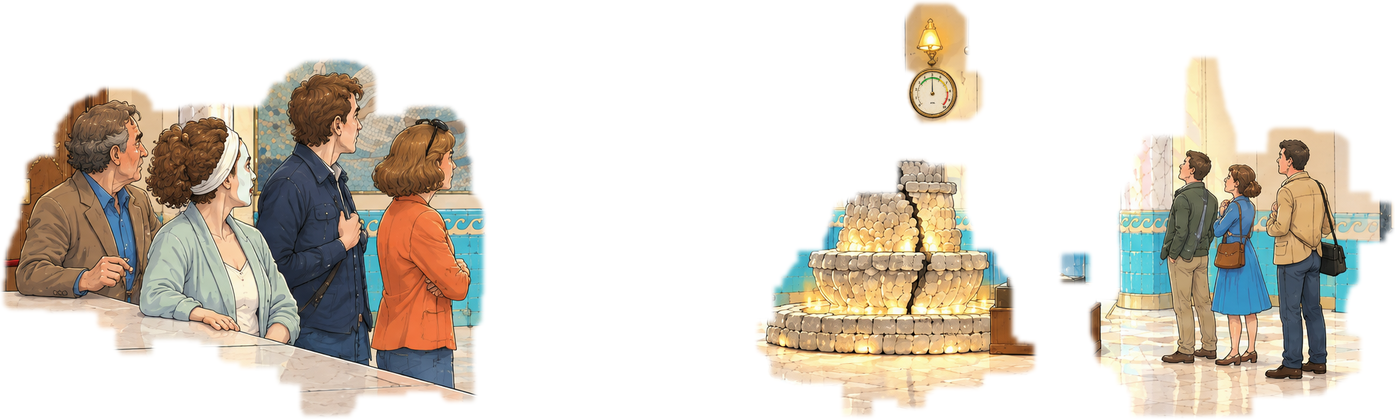
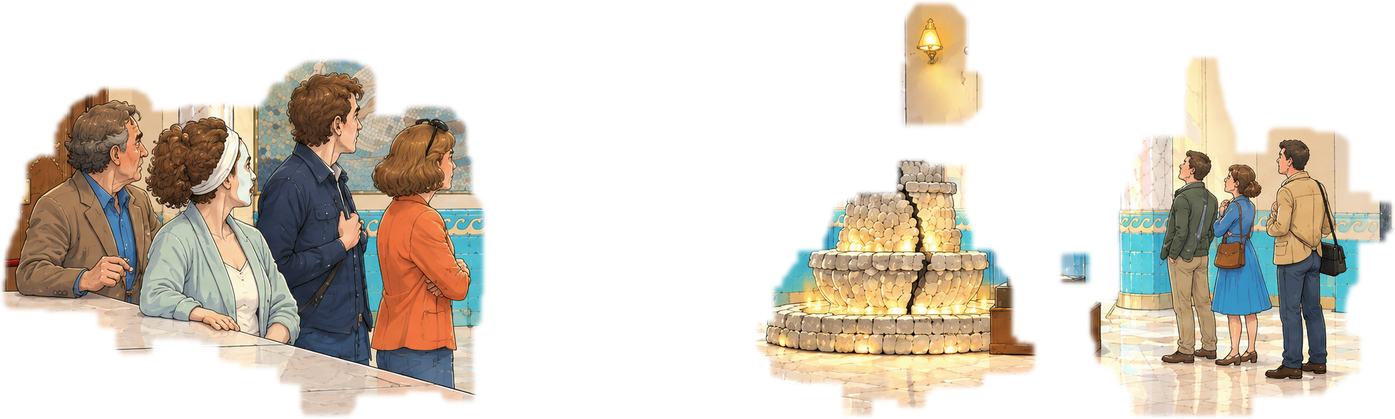
W2: настенный индикатор над каскадом снят (решение автора)
- висел без трубы, ни одна загадка с ним не связана
- кандидаты: room_w2 без индикатора, st_w2_cascade_on без индикатора;
  st_w2_gauge_up снят (спека: графика 261), GDD и спека поправлены
- знак воды в вестибюле в финале — вопрос автору
- лист sheet_1011_gauge.png пересобран

Claude-Session: https://claude.ai/code/session_01NQkZuv53qK3sgjiHcAHzpE

Changed region(s): [[0.6473, 0.1551, 0.709, 0.3103]]

diff --git a/docs/BJ3_ASSET_SPEC.md b/docs/BJ3_ASSET_SPEC.md
@@ -11,7 +11,7 @@
 | Экраны (вайды), включая два вида «из-под юбки» | `assets/gfx/rooms/` | 1920×1080 RGB | 8 |
 | Зумы Z01–Z13 и четыре крупных плана Z04 | `assets/gfx/zooms/` | 1920×1080 RGB | 17 |
 | Кадры немых сцен | `assets/gfx/frames/` | 1920×1080 RGB | 18 |
-| Состояния (сдаются полным кадром-вариантом, §1.2) | `assets/gfx/cutouts/` | сдача 1920×1080 RGB → у меня RGBA-вырезка | 127 |
+| Состояния (сдаются полным кадром-вариантом, §1.2) | `assets/gfx/cutouts/` | сдача 1920×1080 RGB → у меня RGBA-вырезка | 126 |
 | Оверлеи юбки тележки | `assets/gfx/cutouts/` | 1920×1080 RGBA | 2 |
 | Портреты (с вариантами пены) | `assets/gfx/portraits/` | 512×512 RGBA | 42 (+4 Предка из BJ2) |
 | Иконки предметов | `assets/gfx/icons/` | 128×128 RGBA | 9 |
@@ -21,7 +21,7 @@
 | Шрифты | `assets/fonts/` | TTF | 0 — поставлены этой сессией (§8) |
 | Звуки, амбиенты, музыка | `assets/audio/` | OGG | 59 (+9 из BJ2, §9.5) |
 
-Итого генерировать: **графика 262 файла, звук 59 файлов.** Точные списки — в таблицах ниже; счёт сверяет `tools/check_asset_spec.py`.
+Итого генерировать: **графика 261 файл, звук 59 файлов.** Точные списки — в таблицах ниже; счёт сверяет `tools/check_asset_spec.py`.
 
 ## 1. Общие правила
 
@@ -92,7 +92,7 @@
 
 - Средняя относительная яркость **игровых экранов и зумов — не темнее принятых автором кадров пакета 2, рабочий порог ≈ 30 %** (решение автора 06.10.2026: яркость `room_w1` 32 %, `zoom_z02` 32 %, `zoom_z03` 39 % «устраивает», осветление не нужно). DESIGN_BIBLE §9 приведена к этому решением автора 06.10.2026 (было ≥ 45 %). Кадры немых сцен — так же, кроме `fr_a3_dark`: ему разрешена темнота (решение автора 06.10.2026, §13 п. 1).
 - Интерактивный объект на базе — **не меньше 64 px по меньшей стороне** (зона ≥ 44 px с запасом) и контрастнее окружения силуэтом (гейт силуэтов BJ2: запас ≥ ×1,2; бежевое на бежевом — брак, урок BJ2 №6).
-- Цвет — не единственный носитель состояния: индикатор каскада и манометр меняют **форму** (стрелка, лампа), не только цвет (R-09).
+- Цвет — не единственный носитель состояния: манометр конторы и знак воды в вестибюле меняют **форму** (стрелка, лампа), не только цвет (R-09).
 
 ### 1.7. Имена и папки
 
@@ -154,7 +154,7 @@
 
 **Ракурс.** Стоя за стойкой Изольды, чуть развернувшись к залу; стойка закрывает героя по пояс от гостей (их и так не смотрят).
 
-**Композиция.** Справа и по центру внизу — внутренняя сторона стойки: столешница, телефон, мокрый лучистый круг на столешнице и на нём лист уведомления с мокрой лучистой пломбой (без папки), пустая подставка для карты, регламент, привинченный к стойке (ламинат, прямоугольное окно вырезано — сквозь него видно дерево стойки), кнопка каскада с чистой табличкой и маленькой лампой (не горит), микрофон громкой связи на «гусиной шее», фасады двух ящиков без ручек (верхний — нажимной; нижний). За стойкой — вестибюль: пол «под мрамор», толпа гостей (обычная людность, живая и в разных направлениях — замечание автора 07.10.2026: «все спиной — неестественно»: трое-четверо стоят лицом к стойке и возмущаются — у стойки толпа жалующихся, Акт I; остальные идут в профиль, беседуют, читают; лица только на среднем плане; халатов и полотенец нет — банный день; гостья в косметической маске стоит лицом к стойке: светло-мятная глиняная маска с белой каймой у линии волос, широкий ободок — иначе читается как зелёная кожа; её реплика — «маску через двадцать минут смывать»), декоративный каскад на камнях (сух, на камнях одна резкая тёмная линия), над ним круглый индикатор насоса: циферблат без цифр, стрелка на нуле, рядом лампа (не горит); витрина экспоната у стены (стеклянная дверца без ручек, за ней латунный счётчик с лучистой пломбой; табличка на стойке чистая); огромный плакат над толпой; справа у северной стены — двери **служебного лифта** (он открывается прямо в вестибюль: тексты Акта I); **прямо вдали, в западной стене вестибюля, — парадные двустворчатые двери зала прекраснодушия** (план первого этажа `docs/assets/ground_floor_plan.png`), заперты, на них табличка «Зал прекраснодушия. Закрыт на время плановых улучшений» (генератор; решение автора 08.10.2026 по топологии: у публичного зала есть гостевой вход, но сегодня он заперт — поэтому гостей в W4 нет). Слева впереди, в западном конце служебной стороны рядом с откидной доской, — **одна открытая арка** в служебный коридор (решение автора 08.10.2026, по текстам Акта I: «Прачечная налево, зал прекраснодушия прямо»; «За стойкой — служебный коридор. На дверях надписи: „Прачечная“ и „Зал прекраснодушия“»): коридор уходит на запад; двери в нём — на боковых стенах (прачечная — на южной, служебная дверь зала — на северной) и в кадре W2 не читаются; надписи «Прачечная» и «Зал прекраснодушия» звучат только в подписи к кадру (тексты Акта I). Других дверей на служебной стороне нет. Зал и вестибюль — соседи через западную стену: парадные двери и служебный коридор ведут в один зал с одной стороны (замечание автора 08.10.2026: «два входа на противоположных концах здания — физически невозможно»). Пол служебной зоны и вестибюля — плитка «под мрамор», без мозаичной каймы (§1.3). Над толпой — плакат «Банный день» (генератор). Регламент — лист А4 в ламинате на четырёх шурупах, строчки в размытие, посередине вырезано прямоугольное окно до дерева (Акт III: пункт между подготовкой и пуском вырезан). Мокрый лучистый круг — вода, не кофе: глянцевые брызги-лучи, капли, подмокшая бумага уведомления с мокрой красной лучистой пломбой. Откидная доска стойки опущена.
+**Композиция.** Справа и по центру внизу — внутренняя сторона стойки: столешница, телефон, мокрый лучистый круг на столешнице и на нём лист уведомления с мокрой лучистой пломбой (без папки), пустая подставка для карты, регламент, привинченный к стойке (ламинат, прямоугольное окно вырезано — сквозь него видно дерево стойки), кнопка каскада с чистой табличкой и маленькой лампой (не горит), микрофон громкой связи на «гусиной шее», фасады двух ящиков без ручек (верхний — нажимной; нижний). За стойкой — вестибюль: пол «под мрамор», толпа гостей (обычная людность, живая и в разных направлениях — замечание автора 07.10.2026: «все спиной — неестественно»: трое-четверо стоят лицом к стойке и возмущаются — у стойки толпа жалующихся, Акт I; остальные идут в профиль, беседуют, читают; лица только на среднем плане; халатов и полотенец нет — банный день; гостья в косметической маске стоит лицом к стойке: светло-мятная глиняная маска с белой каймой у линии волос, широкий ободок — иначе читается как зелёная кожа; её реплика — «маску через двадцать минут смывать»), декоративный каскад на камнях (сух, на камнях одна резкая тёмная линия), над ним на стене бра (не горит); настенного индикатора нет — снят решением автора 11.10.2026: манометр без трубы висеть не может, и ни одна загадка с ним не связана; витрина экспоната у стены (стеклянная дверца без ручек, за ней латунный счётчик с лучистой пломбой; табличка на стойке чистая); огромный плакат над толпой; справа у северной стены — двери **служебного лифта** (он открывается прямо в вестибюль: тексты Акта I); **прямо вдали, в западной стене вестибюля, — парадные двустворчатые двери зала прекраснодушия** (план первого этажа `docs/assets/ground_floor_plan.png`), заперты, на них табличка «Зал прекраснодушия. Закрыт на время плановых улучшений» (генератор; решение автора 08.10.2026 по топологии: у публичного зала есть гостевой вход, но сегодня он заперт — поэтому гостей в W4 нет). Слева впереди, в западном конце служебной стороны рядом с откидной доской, — **одна открытая арка** в служебный коридор (решение автора 08.10.2026, по текстам Акта I: «Прачечная налево, зал прекраснодушия прямо»; «За стойкой — служебный коридор. На дверях надписи: „Прачечная“ и „Зал прекраснодушия“»): коридор уходит на запад; двери в нём — на боковых стенах (прачечная — на южной, служебная дверь зала — на северной) и в кадре W2 не читаются; надписи «Прачечная» и «Зал прекраснодушия» звучат только в подписи к кадру (тексты Акта I). Других дверей на служебной стороне нет. Зал и вестибюль — соседи через западную стену: парадные двери и служебный коридор ведут в один зал с одной стороны (замечание автора 08.10.2026: «два входа на противоположных концах здания — физически невозможно»). Пол служебной зоны и вестибюля — плитка «под мрамор», без мозаичной каймы (§1.3). Над толпой — плакат «Банный день» (генератор). Регламент — лист А4 в ламинате на четырёх шурупах, строчки в размытие, посередине вырезано прямоугольное окно до дерева (Акт III: пункт между подготовкой и пуском вырезан). Мокрый лучистый круг — вода, не кофе: глянцевые брызги-лучи, капли, подмокшая бумага уведомления с мокрой красной лучистой пломбой. Откидная доска стойки опущена.
 
 **Откидная доска — устройство** (замечание автора 07.10.2026: сверить с прототипом и функцией). Функция в игре — проход сквозь стойку из вестибюля на служебную сторону: тележка упирается, Изольда, не глядя, поднимает доску, тележка уезжает за стойку (Акт I, AS10; сегодня доску перекрывает толпа). Прототип — откидная секция барной/ресепшн-стойки (counter flap): кусок столешницы ~80 см на петлях, поднимается вверх и откидывается на соседнюю часть стойки; под ним — калитка, низкая распашная дверца до пола. **Как она выглядит (решение автора 08.10.2026):** «из поверхности стойки вырезали прямоугольный кусок, а потом посадили его обратно на петли». Тот же мрамор, те же прожилки и та же латунная кромка, что у всей столешницы, строго вровень; видны только две тонкие щели поперёк столешницы — ровно над краями калитки — и плоские врезные латунные петли вдоль **одной** щели (прототип — flush counter flap hinge, барная стойка). Другой цвет, рамка, кольцо, выступ — брак (три такие пробы 08.10.2026 отклонены). Место — западный конец стойки, у арки в служебный коридор (план первого этажа).
 
@@ -177,8 +177,7 @@
 | `st_w2_complaints.png` | стопка жалоб у локтя Изольды | `act` ≥ 3 |
 | `st_w2_kefir.png` | бутылка кефира и накладная на столешнице стойки | `kefir_ready` ∧ ¬`payment_loaded` |
 | `st_w2_pump_lamp.png` | лампа у кнопки каскада горит | `cascade_on` ∨ кадр `OPEN.demo` |
-| `st_w2_cascade_on.png` | аттракцион включён: подсветка камней каскада горит, индикатор насоса — лампа горит, стрелка манометра на 5 (образец §1.3, «Манометры») (воды нет, камни сухие); **толпа вестибюля повёрнута к каскаду** (слой толпы заменяется: спины и профили к стойке, лица к камням) — ширма для витрины; то же в открытии акта | `cascade_on` ∨ кадр `OPEN.demo` |
-| `st_w2_gauge_up.png` | индикатор над каскадом — манометр по образцу §1.3, «Манометры»: стрелка на 5, лампа горит (форма, не только цвет); на базе стрелка на нуле | `water_restored` |
+| `st_w2_cascade_on.png` | аттракцион включён: подсветка камней каскада горит, бра над каскадом горит (воды нет, камни сухие); **толпа вестибюля повёрнута к каскаду** (слой толпы заменяется: спины и профили к стойке, лица к камням) — ширма для витрины; то же в открытии акта | `cascade_on` ∨ кадр `OPEN.demo` |
 | `st_w2_vitrine_open.png` | дверца витрины открыта | `vitrine_open` |
 | `st_w2_lowdrawer_open.png` | нижний ящик стойки выдвинут, пуст | `relic_r3` |
 
@@ -474,7 +473,7 @@
 | `SEQ.doors` | IV | как `SEQ.come_out` + `st_w5_door_office.png` |
 | `SEQ.office` | IV | `room_w6.png` + `st_w6_kuh.png` + `st_w6_seal.png` |
 | `PA.final` | IV | `zoom_z13.png` + `st_z13_seal_torn.png` + `st_z13_needle_up.png` + вещи на столе |
-| `SEQ.finale` | IV | `room_w2.png` + `st_w2_iz.png` + `st_w2_gauge_up.png`, затем `zoom_z06.png` + `st_z06_spin.png`, затем `zoom_z13.png` + `st_z13_seal_torn.png` + `st_z13_needle_up.png`; портрет `lap_clean` |
+| `SEQ.finale` | IV | `room_w2.png` + `st_w2_iz.png` + знак воды в вестибюле (ждёт решения автора: настенный индикатор снят 11.10.2026), затем `zoom_z06.png` + `st_z06_spin.png`, затем `zoom_z13.png` + `st_z13_seal_torn.png` + `st_z13_needle_up.png`; портрет `lap_clean` |
 | `SEQ.upstairs` | IV | `zoom_z12.png` + `st_z12_door_open.png` |
 | `EPI.0` | IV | `fr_epi_laundry.png`, затем `fr_epi_minibar.png` |
 | `EPI.1` | IV | `fr_epi_laundry.png`, затем `fr_epi_minibar.png`, затем `zoom_z13.png` + `st_z13_seal_torn.png` + `st_z13_needle_up.png` + найденная вещь (`st_z13_token.png`, `st_z13_postcard.png` или `st_z13_mug.png`) |

diff --git a/PROJECT_STATUS_HYDROUDAR.md b/PROJECT_STATUS_HYDROUDAR.md
@@ -4,7 +4,7 @@
 
 ## Точка входа для новой сессии
 
-- ★★★★ **11.10.2026, поздняя ночь — МАНОМЕТР ПЕРЕДЕЛАН ПО ЗАМЕЧАНИЮ АВТОРА; 12 СОСТОЯНИЙ Z13 НА ПРИЁМКЕ. ДАЛЬШЕ — с этого пункта.** Замечание: «нет стрелки… ни цифр, ни зелёных/жёлтых/красных зон». Циферблат на W6 и Z13: цифры 0–10, «атм.», зоны зелёная 3–6 / жёлтая 6–8 / красная 8–10; стрелка на нуле — на базе, `st_*_needle_up` — целый циферблат со стрелкой на 5; слои `st_*_needle_zero` сняты (спека: графика 262). **Решение автора: правило для всех манометров игры** (спека §1.3 «Манометры», строка в `CLAUDE.md`); индикатор над каскадом W2 переделан так же (база `room_w2` и слои `st_w2_cascade_on`, `st_w2_gauge_up`). Кандидаты — `work/higgsfield/candidates/gauge_1011/` (новые редакции `room_w2`, `room_w6`, `zoom_z13`, README), лист `work/higgsfield/sheet_1011_gauge.png`; лист состояний Z13 пересобран на новой основе.
+- ★★★★ **11.10.2026, поздняя ночь — МАНОМЕТР ПЕРЕДЕЛАН ПО ЗАМЕЧАНИЮ АВТОРА; 12 СОСТОЯНИЙ Z13 НА ПРИЁМКЕ. ДАЛЬШЕ — с этого пункта.** Замечание: «нет стрелки… ни цифр, ни зелёных/жёлтых/красных зон». Циферблат на W6 и Z13: цифры 0–10, «атм.», зоны зелёная 3–6 / жёлтая 6–8 / красная 8–10; стрелка на нуле — на базе, `st_*_needle_up` — целый циферблат со стрелкой на 5; слои `st_*_needle_zero` сняты (спека: графика 262). **Решение автора: правило для всех манометров игры** (спека §1.3 «Манометры», строка в `CLAUDE.md`); настенный индикатор над каскадом W2 **снят** (решение автора: висел без трубы, загадок с ним нет; база `room_w2`, слой `st_w2_cascade_on`; `st_w2_gauge_up` снят, графика 261). **Вопрос автору:** чем показать воду в вестибюле в финале (`SEQ.finale`, титр «Стрелка индикатора над декоративным каскадом…» — менять). Кандидаты — `work/higgsfield/candidates/gauge_1011/` (новые редакции `room_w2`, `room_w6`, `zoom_z13`, README), лист `work/higgsfield/sheet_1011_gauge.png`; лист состояний Z13 пересобран на новой основе.
 - ★★★ **11.10.2026, поздняя ночь — 13 состояний Z13 на приёмку (ред. 1).** Кандидаты — `work/higgsfield/candidates/z13_states_1011/` (README: job, вырезка, отклонённые), лист `work/higgsfield/sheet_1011_z13_states.png`. Пломба, обрывок пломбы на уступе, две стрелки, жетон / открытка / кружка на своих местах, три расчищенных места для эпилога, мыльная рука с вантузом, щупальце в нарукавнике, две руки на маховике. Новый инструмент `tools/assets/rect_layer.py` (слой-прямоугольник там, где переставлены предметы). Спека §1.2: руки героя и щупальце в кадрах действий — поверх всего. После «да» — перенос в `assets/`; затем W1/W4 (`st_w1_cistern_open`, `st_w1_menu`, `st_w1_plunger`, `st_w4_trolley_stairs`), `st_fr_a3_under_arrive_tentacles`, оттиски.
 - ★★★★ **11.10.2026, поздняя ночь — ПАКЕТ 4 (низ) ПРИНЯТ (слово автора «да»), перенесён в `assets/`.** Ветка `claude/keen-mayer-h74kke`, PR #16; кандидаты и параметры — `work/higgsfield/candidates/low_1011/` (README), листы `work/higgsfield/sheet_1011_low_{z13,w6,w5}.png`.
   - **В `assets/`:** `zoom_z13`; `room_w6` (ред.: фото семьи — портрет Ктулху; прежняя — `work/orig_gfx/`); `st_w6_seal`, `st_w6_needle_zero`, `st_w6_needle_up`, `st_w6_water`, `st_w5_goods`, `st_w5_door_office`, `st_w5_water`; `st_w5_trolley` заменён (без серых квадратов; прежний — `work/orig_gfx/cutouts/`). Кадры-варианты — `work/higgsfield/variants/`, `accept` в журнале. Готово **178 из 264** рисунков (67 %); после правки манометра — 177 из 262 (`st_w6_needle_zero` снят).

diff --git a/work/higgsfield/candidates/gauge_1011/README.md b/work/higgsfield/candidates/gauge_1011/README.md
@@ -4,6 +4,8 @@
 
 **Ред. 2 — все манометры игры (решение автора 11.10.2026: «хочу. и это касается не только этой сессии, а всех экранов, где появляются манометры»).** Правило записано в спеку §1.3 («Манометры») и в `CLAUDE.md`. Индикатор над каскадом в вестибюле W2 — тот же циферблат: новая редакция базы `room_w2.png` (стрелка на нуле; участок 1200,200–1330,330 ×6, e6c721f9; кадр cc3c274f, проба 2 из трёх — у проб 1 и 3 оправа с заклёпками, на W2 оправа гладкая; вклейка в эллипс оправы 1243,243–1293,294), стрелка на 5 — 52c912e5 (проба 2 из двух). В принятых слоях `st_w2_cascade_on` и `st_w2_gauge_up` оправа и циферблат заменены новыми со стрелкой на 5 (только внутри эллипса оправы; свет лампы и остальное — как было). Счётчик воды в витрине (Z05) — не манометр, не тронут (вопрос автору).
 
+**Ред. 3 — индикатор W2 снят (решение автора 11.10.2026: «если никакая головоломка с манометром на стене не связана, то лучше убрать»).** Настенный индикатор над каскадом висел без трубы — давлению неоткуда взяться; ни в одной загадке он не участвует (только титр финала `SEQ.finale` и состояние `st_w2_gauge_up`). Новая редакция базы `room_w2.png`: на месте индикатора — стена (ee9409f4/6e823685, взята проба 2; вклейка в прямоугольник 1236,236–1300,300), бра осталось. `st_w2_cascade_on`: индикатор убран с подсветкой (c3688aed, проба 2 из двух; слой дополнен в том же прямоугольнике). `st_w2_gauge_up` снят (спека: графика 261). Чем показать воду в вестибюле в финале — вопрос автору. Ред. 2 по W2 (циферблат на стене) отменена.
+
 **На приёмке.** Лист — `work/higgsfield/sheet_1011_gauge.png` (серое — было, жёлтое — стало).
 
 **Что сделано.**
@@ -18,4 +20,4 @@
 | W6, стрелка на нуле | 1bcf4490 (участок 1680,240–1880,460 ×4, 843aa732, образец — 047ad90f; проба 2 из двух) | вклейка в эллипс оправы 1730,270–1880,418 |
 | W6, стрелка на 5 | 26af480f (правка 1bcf4490; проба 2 из двух) | слой — эллипс циферблата 1748,287–1860,403 |
 
-После «да»: `room_w2.png` → `assets/gfx/rooms/`, `st_w2_cascade_on`, `st_w2_gauge_up` → `assets/gfx/cutouts/` (прежние — `work/orig_gfx/`); `room_w6.png` → `assets/gfx/rooms/`, `zoom_z13.png` → `assets/gfx/zooms/` (прежние — `work/orig_gfx/`), `st_w6_needle_up`, `st_w6_water` → `assets/gfx/cutouts/` с записями в `cutouts.json`, `st_w6_needle_zero` из `assets/` — в `work/orig_gfx/cutouts/`.
+После «да»: `room_w2.png` → `assets/gfx/rooms/`, `st_w2_cascade_on` → `assets/gfx/cutouts/`, `st_w2_gauge_up` из `assets/` — в `work/orig_gfx/cutouts/` (прежние — `work/orig_gfx/`); `room_w6.png` → `assets/gfx/rooms/`, `zoom_z13.png` → `assets/gfx/zooms/` (прежние — `work/orig_gfx/`), `st_w6_needle_up`, `st_w6_water` → `assets/gfx/cutouts/` с записями в `cutouts.json`, `st_w6_needle_zero` из `assets/` — в `work/orig_gfx/cutouts/`.

diff --git a/docs/BJ3_GDD.md b/docs/BJ3_GDD.md
@@ -72,7 +72,7 @@
 | Ящик Изольды | закрыт; открыт только в кадрах `TALK.req.cut`, `SEQ.iz.payment` | кадры |
 | Нижний ящик (R3) | закрыт / открыт, пуст; кружка на столешнице тележки или на её столе в W6 | `relic_r3` |
 | Кнопка каскада | табличка «Влажное наваждение: пуск»; при включённом аттракционе лампа горит, подсветка камней включена, насос гудит, **толпа повёрнута к каскаду** (ширма для витрины; показ в открытии акта `OPEN.demo`) | `cascade_on` (состояние экрана: снимается при уходе из W2) |
-| Декоративный каскад | сух, на камнях одна резкая линия; индикатор над каскадом — стрелка на нуле / стрелка поднялась в финале | ¬`water_restored` / `water_restored` (R-09: форма, не цвет) |
+| Декоративный каскад | сух, на камнях одна резкая линия; знак воды в финале — ждёт решения автора (настенный индикатор снят 11.10.2026: манометр без трубы висеть не может, загадок с ним нет) | ¬`water_restored` / `water_restored` (R-09: форма, не цвет) |
 | Витрина экспоната (Z05) | закрыта / открыта; на циферблате бумажная бирка «Экспонат № 1» / отогнута, показания 40 712 читаются; на счётчике пломба / пломба + круг вантуза | `vitrine_open`; `meter_reading_seen`; `seal_is_mark` |
 | Регламент на стойке | привинчен, окно вырезано | всегда |
 | Стопка жалоб (Акт III) | жалобы «Принято»; счёт сверху графой «М.П.» (кадр) / счёт с печатью | `knows_mp_habit`; `bill_stamped` |
@@ -283,7 +283,7 @@
 
 ## 13. Заметки художнику
 
-- **Индикатор каскада в финале** (R-09): состояние видно формой — стрелка отрывается от нуля или загорается лампа; не только цветом.
+- **Знак воды в вестибюле в финале** (R-09): состояние видно формой, не только цветом. Настенный индикатор снят 11.10.2026 (решение автора); чем его заменить — ждёт решения автора.
 - **Три крупных плана Z04 для немых сцен** (R-28): три бланка → один скреплённый (P04); папка поднята, ключ на столешнице (P08); сухие руки Изольды ставят кефир на тележку (P14).
 - **Пол вестибюля** — плитка «под мрамор»; зал прекраснодушия — мозаика с каймой (та же кайма на фото «Четвергъ»); прачечная — кафель; приёмный пункт — мокрый кафель.
 - **Кружка Изольды** эмалированная, с отбитым краем; **тележка** — латунная, пластина «Каскадъ», инвентарный номер 17 (Акт I и Акт IV).
